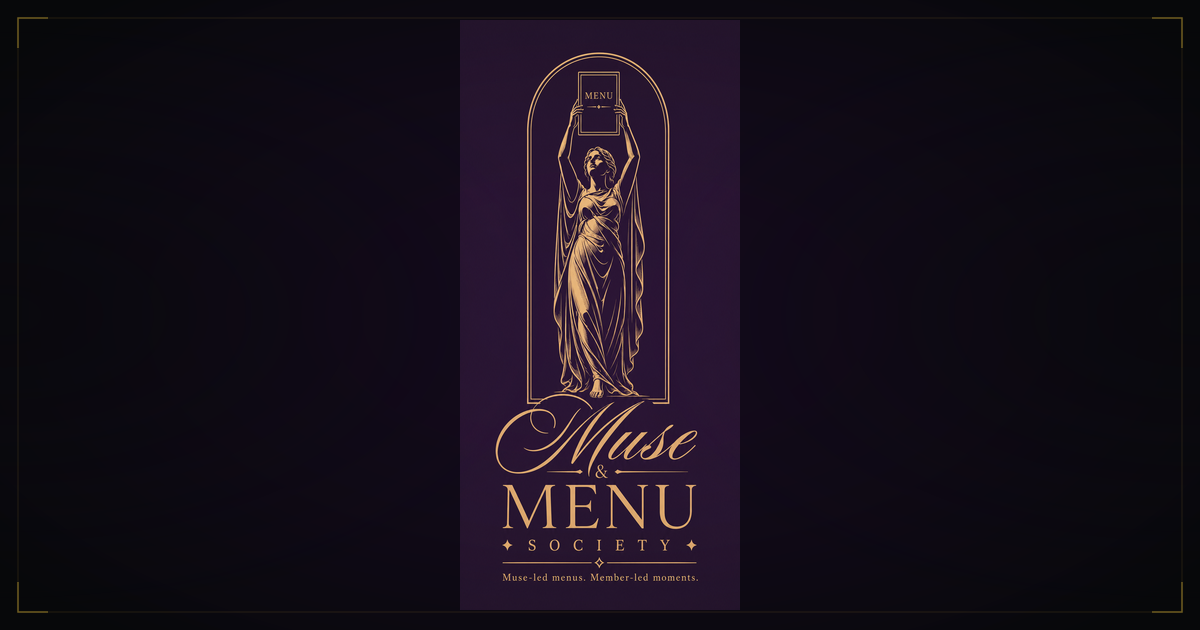
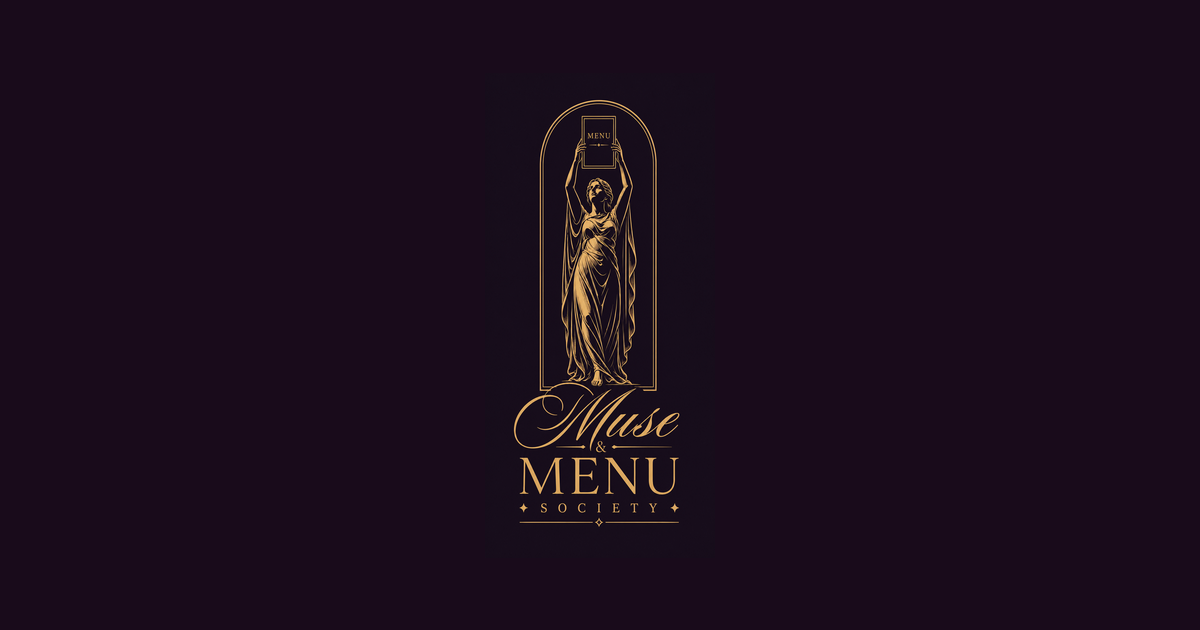
Fix mobile hamburger + regenerate share preview
Header: 'Society' hidden below md breakpoint — it was wide enough on
small portrait screens to push the hamburger off-screen. Added
white-space: nowrap on wordmark link to prevent any line wrapping.

Share preview: regenerated with exact logo background (#190b1b sampled
from logo corner pixel) + over blend mode. Previous version used screen
blend which caused graininess, and the canvas bg (#09080C) didn't match
the logo bg (#190b1b), producing a visible grey rectangle. Logo now
230×485px centred on matching 1200×630 canvas — clean, no seam,
appropriate breathing room.

Changed region(s): [[0.4008, 0.0603, 0.6167, 0.9349]]

diff --git a/components/layout/Header.tsx b/components/layout/Header.tsx
@@ -31,12 +31,12 @@ export default function Header({ isAuthenticated = false }: { isAuthenticated?: 
         <Link
           href="/"
           className="logo-luster"
-          style={{ textDecoration: 'none', display: 'inline-flex', alignItems: 'baseline', gap: '0.22em', lineHeight: 1 }}
+          style={{ textDecoration: 'none', display: 'inline-flex', alignItems: 'baseline', gap: '0.22em', lineHeight: 1, whiteSpace: 'nowrap' }}
         >
           <span style={{ fontFamily: SERIF, fontStyle: 'italic', fontWeight: 300, fontSize: 'clamp(1.45rem, 2vw, 1.9rem)', color: GOLD, letterSpacing: '0.025em' }}>Muse</span>
           <span style={{ fontFamily: SERIF, fontStyle: 'italic', fontWeight: 300, fontSize: 'clamp(0.78rem, 1.1vw, 1rem)', color: 'rgba(214,163,74,0.42)', alignSelf: 'center', letterSpacing: '0.06em' }}>&amp;</span>
           <span style={{ fontFamily: CAPS, fontWeight: 400, fontSize: 'clamp(0.98rem, 1.38vw, 1.3rem)', color: GOLD, letterSpacing: '0.24em', textTransform: 'uppercase' }}>Menu</span>
-          <span style={{ fontFamily: CAPS, fontWeight: 400, fontSize: 'clamp(0.55rem, 0.75vw, 0.7rem)', color: 'rgba(214,163,74,0.40)', letterSpacing: '0.32em', textTransform: 'uppercase', alignSelf: 'flex-end', paddingBottom: '0.2em' }}>Society</span>
+          <span className="hidden md:inline" style={{ fontFamily: CAPS, fontWeight: 400, fontSize: 'clamp(0.55rem, 0.75vw, 0.7rem)', color: 'rgba(214,163,74,0.40)', letterSpacing: '0.32em', textTransform: 'uppercase', alignSelf: 'flex-end', paddingBottom: '0.2em' }}>Society</span>
         </Link>
 
         {/* Desktop nav — Cinzel, all 7 routes */}
